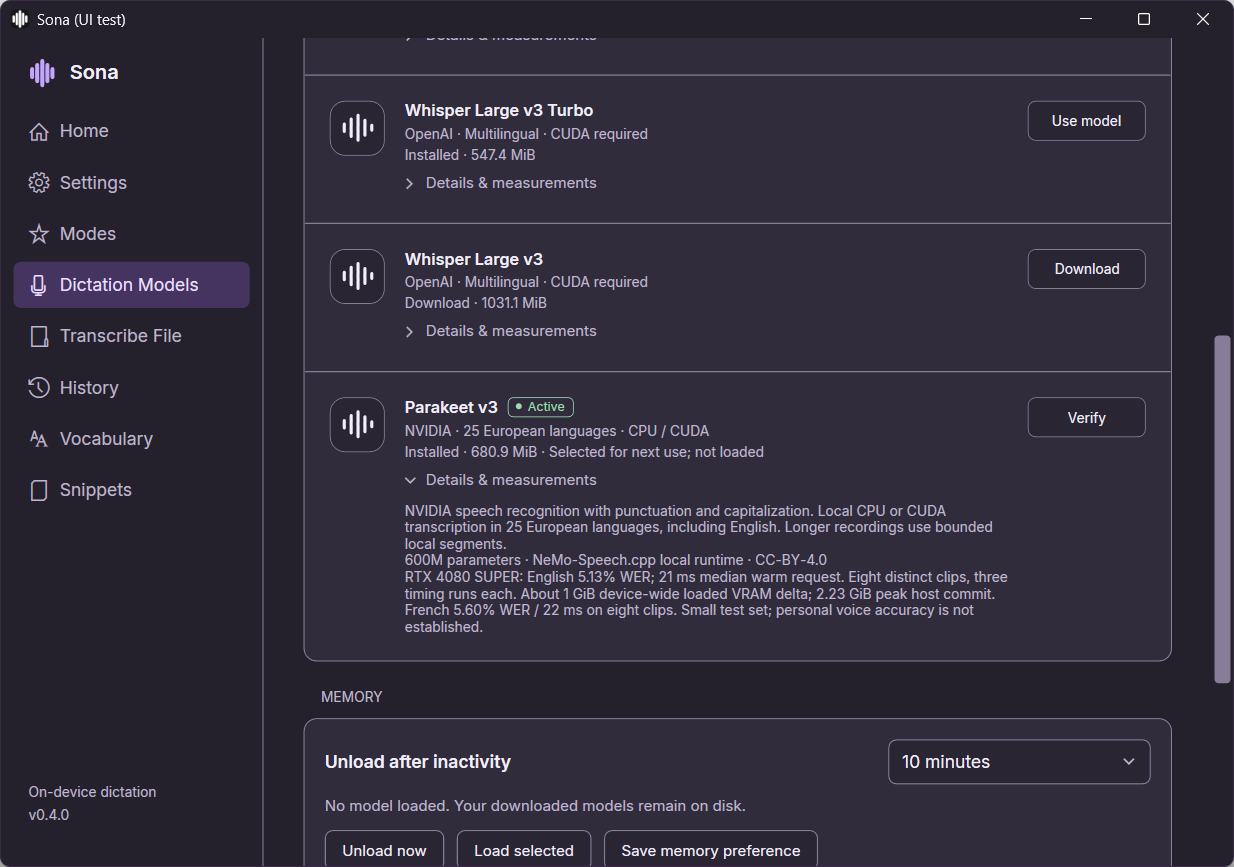
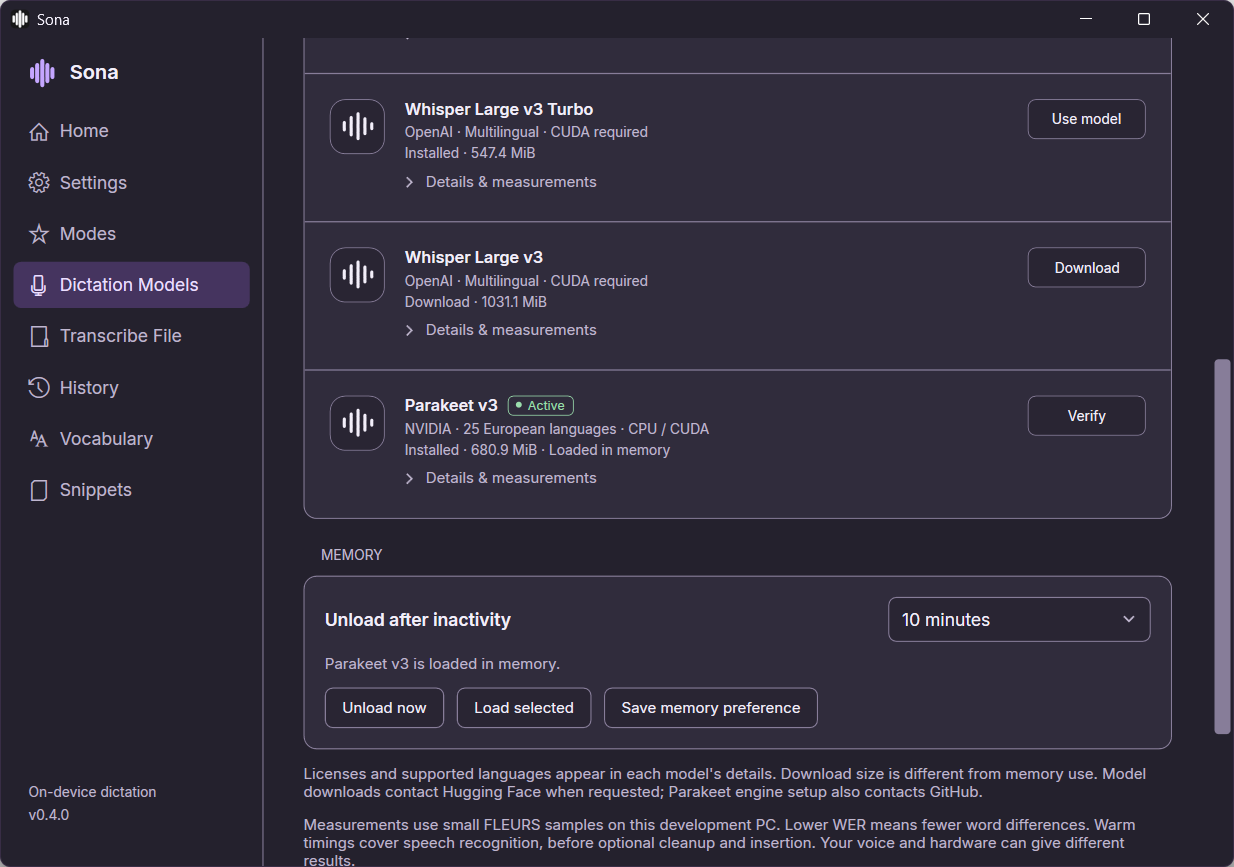
Record installed Parakeet GPU proof and preserved Sona preferences

diff --git a/docs/PARAKEET.md b/docs/PARAKEET.md
@@ -64,7 +64,7 @@ correctness review after integration. No shared Vault writer or public release.
   native model-picker proof at 1000x700 and 740x530 DIP. Update actual measurements
   and choose owner default by English results; retain Whisper selectable. Do
   not infer owner's personal accent accuracy from the small corpus.
-- [ ] Review scoped diff, close real findings, commit/fast-forward push privately,
+- [x] Review scoped diff, close real findings, commit/fast-forward push privately,
   package the exact source and use the encrypted draft-preserving updater.
   Compare installed/member/source hashes and saved Amethyst, clipboard, startup,
   vocabulary and call state. Verify the chosen actual GPU worker and no leftover
@@ -144,3 +144,23 @@ per-model measurements beside it, `sona040-gpu-paired-memory.json`,
 The negative Whisper VRAM deltas in the initial benchmark are invalid for model
 attribution because its baseline still included the previous Parakeet worker;
 the separate paired-memory fixture supplies the table's corrected loading deltas.
+
+## Installed target receipt
+
+Sona 0.4.0 was installed from qualified source
+`aaeb9f2196301b46c514c5e083dcf34c23969080` with the encrypted updater; its draft
+readback matched. All 35 package members and 36 CUDA runtime members matched
+their receipts. Parakeet was selected and loaded by an actual `cuda:0` worker.
+Only the requested Model preference changed. Amethyst, clipboard backup, 52
+recognition terms, five corrections, three watched identities, 10-minute residency,
+startup, tray behavior and GPU cleanup were preserved. Discord returned connected,
+unpaused and Ready without owned mute/deafen changes. About/sidebar report 0.4.0;
+the three compact cleanup selectors still measure 32x176 DIP.
+
+`E:/Temp/qazws/sona040-installed-readback.json` records exact readback and the
+preservation checksum; the installed settings/model screenshots were inspected.
+Eight retired diagnostic/failed-build trees were removed (314673144 bytes);
+accepted native source/build, original archives, benchmark/failure evidence,
+every installed model and the 0.3.3 recovery installation remain. The final
+documentation/screenshot commit does not change the installed product source tree.
+Live personal microphone acceptance remains the owner's next Ctrl+Win exercise.

diff --git a/docs/VERIFICATION.md b/docs/VERIFICATION.md
@@ -62,6 +62,26 @@ Additional evidence: `sona040-windows-final.log`, `sona040-agent-final/agent-smo
 `sona040-models-normal-qualified/models-ui-smoke.json`,
 `sona040-models-compact-verified/models-ui-smoke.json` and their screenshots.
 
+Installed 0.4.0 source/package identity is
+`aaeb9f2196301b46c514c5e083dcf34c23969080`, with 35 package and 36 CUDA runtime
+members independently matched. The encrypted updater confirmed the existing draft.
+Saved Model is now parakeet-v3 and a real cuda:0 resident worker became ready.
+Every other preference has the same before/after logical checksum
[1 lines of base64/hex data omitted]
+Amethyst, clipboard backup, vocabulary, watched app identities, 10-minute idle
+policy, tray/startup behavior and GPU cleanup remain. Actual native About/sidebar
+are 0.4.0; compact cleanup controls are still 32x176 DIP. Discord is connected,
+unpaused, Ready and owns no changes. Screenshot inspection confirmed the loaded
+Parakeet row and preserved styling. Eight retired build/diagnostic copies reclaimed
+314673144 bytes; accepted source/build, originals, receipts, all model choices and
+0.3.3 recovery remain. No test process remains; idle production workers may unload
+normally. Later documentation-only Git convergence preserves the installed `src`
+tree and does not require a second app update.
+
+Exact target receipts: `E:/Temp/qazws/sona040-installed-readback.json`,
+`sona040-upgrade.log`, `sona040-retired-build-cleanup.json`,
+`sona040-installed-models.png`, `sona040-installed-settings.png`.
+
 ## 0.3.3 compact controls and saved appearance, October 13
 
 The owner rejected the oversized local-cleanup selectors and reported Amethyst
